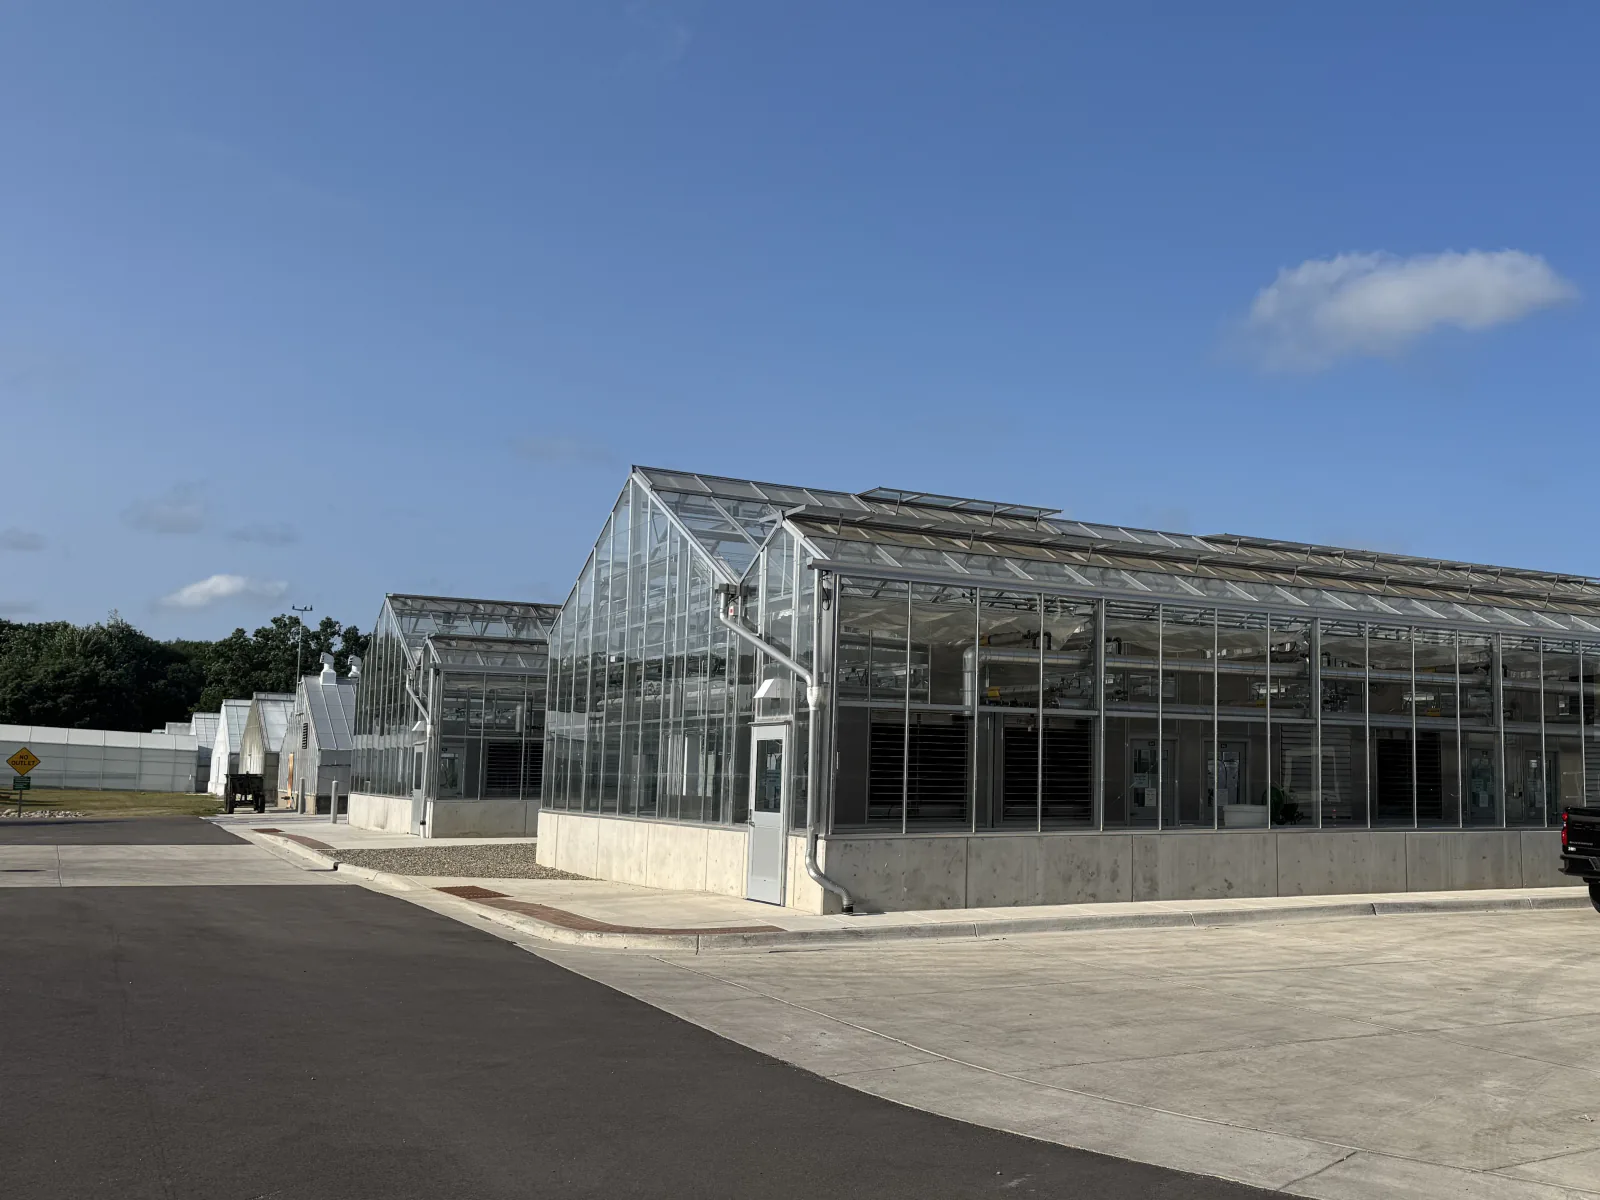
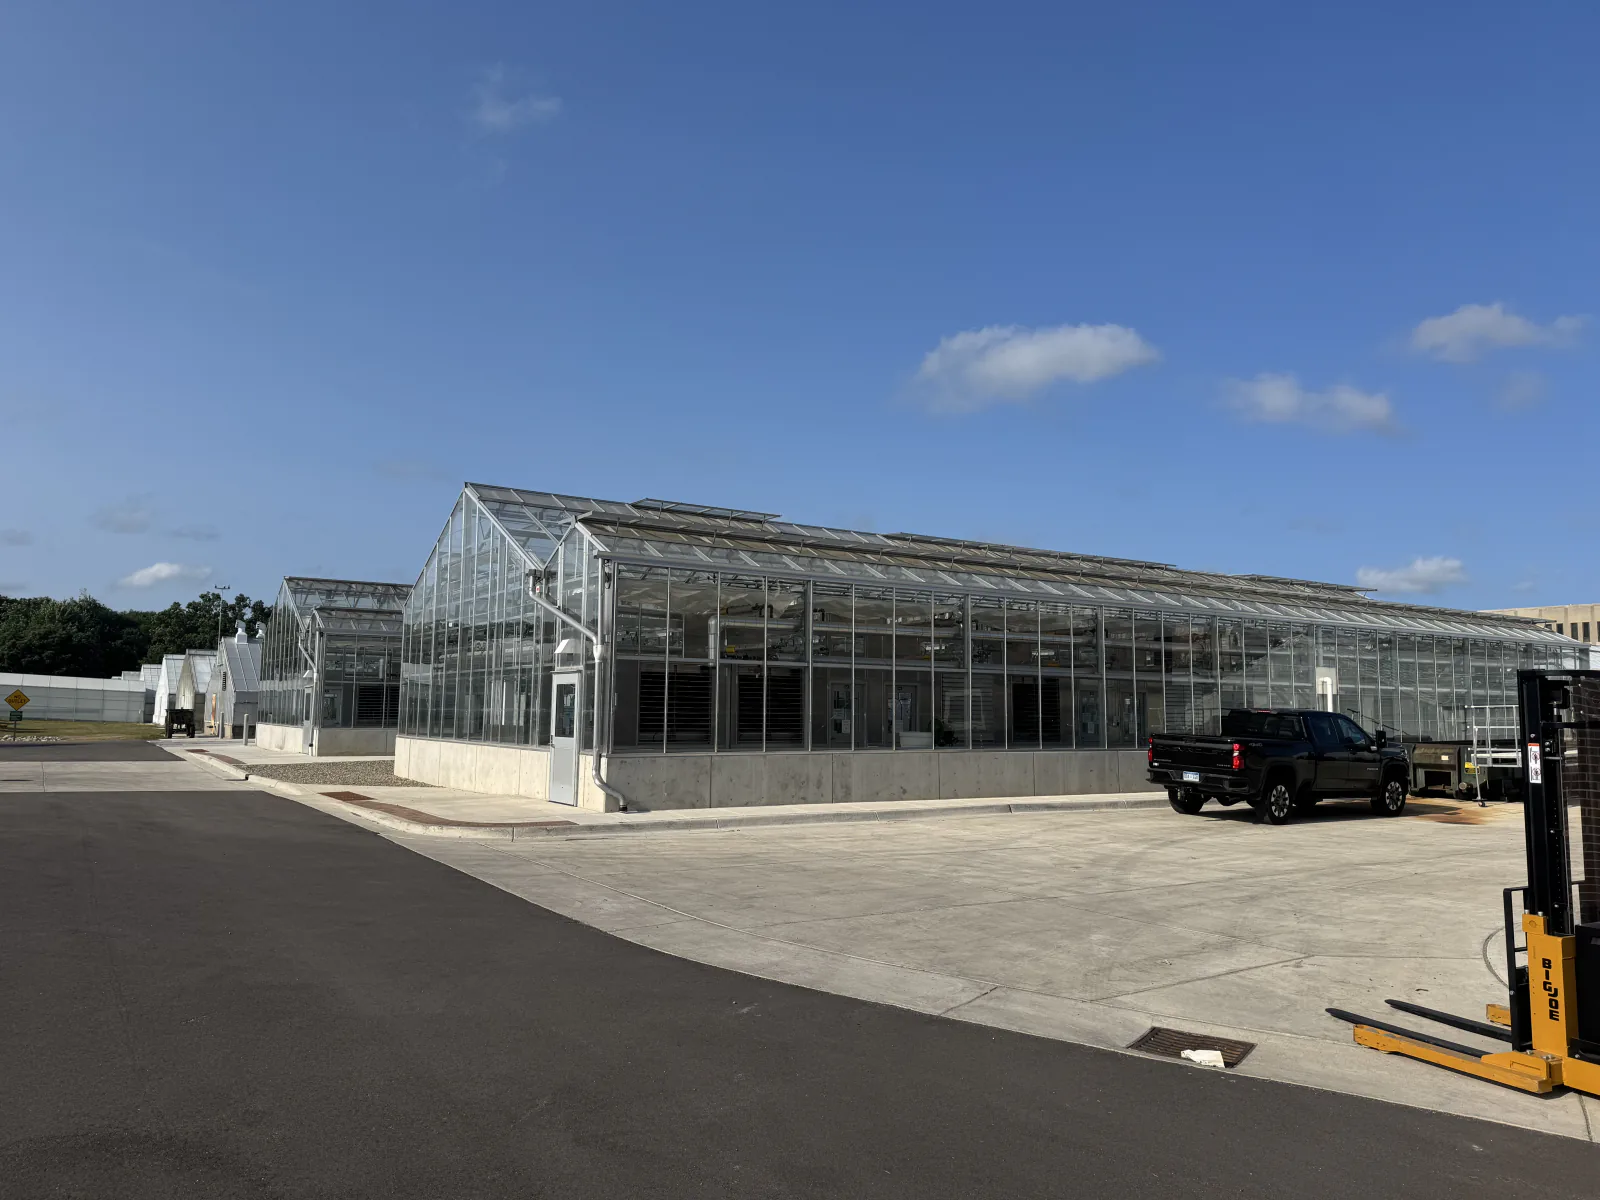
Fix application photo cards

diff --git a/applications.html b/applications.html
@@ -408,30 +408,39 @@
 
   .app-cards {
     display: grid;
-    grid-template-columns: repeat(2, 1fr);
-    gap: 0;
+    grid-template-columns: repeat(3, minmax(0, 1fr));
+    gap: 1.5rem;
+    align-items: stretch;
   }
 
   .app-card {
-    background: var(--bg);
+    background: rgba(255, 255, 255, 0.72);
     border: 1px solid var(--rule);
-    margin: -1px 0 0 -1px;
-    padding: 2.5rem;
+    border-radius: 14px;
+    margin: 0;
+    padding: 1.5rem;
     position: relative;
     overflow: hidden;
-    transition: background 0.3s;
+    display: flex;
+    flex-direction: column;
+    box-shadow: 0 18px 48px rgba(14, 26, 20, 0.07);
+    transition: background 0.3s, border-color 0.3s, transform 0.3s, box-shadow 0.3s;
     cursor: default;
   }
   .app-card:nth-child(3) {
-    grid-column: 1 / -1;
-    justify-self: center;
-    width: 50%;
+    grid-column: auto;
+    width: auto;
   }
   .app-card > * {
     position: relative;
     z-index: 2;
   }
-  .app-card:hover { background: var(--water-pale); }
+  .app-card:hover {
+    background: #fff;
+    border-color: rgba(26, 107, 74, 0.28);
+    transform: translateY(-3px);
+    box-shadow: 0 22px 56px rgba(14, 26, 20, 0.11);
+  }
 
   .app-card-num {
     font-family: var(--mono);
@@ -460,13 +469,18 @@
     line-height: 1.7;
     color: var(--ink);
     opacity: 0.65;
+    flex: 1;
   }
   .app-card-image {
-    margin-top: 2rem;
+    order: -1;
+    margin: 0 0 1.75rem;
     width: 100%;
-    height: 160px;
-    background: var(--mist);
+    height: auto;
+    aspect-ratio: 1;
+    padding: 0.8rem;
+    background: linear-gradient(145deg, #edf2ef, #e5ebe7);
     border: 1px solid var(--rule);
+    border-radius: 10px;
     display: flex;
     align-items: center;
     justify-content: center;
@@ -477,7 +491,9 @@
     display: block;
     width: 100%;
     height: 100%;
-    object-fit: cover;
+    object-fit: contain;
+    border-radius: 6px;
+    box-shadow: 0 8px 24px rgba(14, 26, 20, 0.12);
   }
 
   /* ── WHY EXACTH2O ── */
@@ -616,7 +632,7 @@
     .cta-strip { padding: 4rem 1.5rem; }
     .app-intro-grid { grid-template-columns: 1fr; gap: 2rem; }
     .app-cards { grid-template-columns: 1fr; }
-    .app-card:nth-child(3) { width: 100%; }
+    .app-card:nth-child(3) { width: auto; }
     .why-inner { grid-template-columns: 1fr; gap: 3rem; }
     footer { flex-direction: column; gap: 0.8rem; text-align: center; padding: 2rem 1.5rem; }
   }
@@ -787,7 +803,7 @@
         Precisely control and measure substrate water content to induce, maintain, and recover from defined drought stress levels. ExactH2O enables researchers to hold volumetric water content at any target percentage across replicated pots simultaneously — eliminating the variability that undermines stress experiment reproducibility. Continuous logging captures the full stress trajectory from imposition through relief, allowing correlation with physiological indicators like stomatal conductance, chlorophyll fluorescence, and biomass accumulation.
       </p>
       <div class="app-card-image">
-        <img src="/applications-plant-stress.webp" width="1600" height="1200" loading="lazy" decoding="async" alt="Young plants in individually irrigated pots with moisture sensors and color-coded tubing">
+        <img src="/applications-plant-stress.webp?v=2" width="1200" height="1600" loading="lazy" decoding="async" alt="Young plants in individually irrigated pots with moisture sensors and color-coded tubing">
       </div>
     </div>
 
@@ -807,7 +823,7 @@
         Integrate substrate water data into high-throughput phenotyping pipelines to disentangle genetic variation from environmental noise. When every genotype in a diversity panel experiences a rigorously identical water regime, differences in growth rate, leaf area, transpiration efficiency, and stress tolerance become attributable to genetics — not watering inconsistency. ExactH2O provides the environmental ground truth that makes phenotyping data scientifically defensible.
       </p>
       <div class="app-card-image">
-        <img src="/applications-plant-phenotyping.webp" width="1600" height="1200" loading="lazy" decoding="async" alt="LI-COR LI-600 instrument recording plant gas-exchange measurements beside experimental pots">
+        <img src="/applications-plant-phenotyping.webp?v=2" width="1200" height="1600" loading="lazy" decoding="async" alt="LI-COR LI-600 instrument recording plant gas-exchange measurements beside experimental pots">
       </div>
     </div>
 
@@ -826,7 +842,7 @@
         Deploy sensor networks across greenhouse benches and container arrays to maintain defined irrigation targets. Built for research facilities and commercial greenhouse operations, ExactH2O combines automated irrigation, continuous monitoring, and multi-zone control while preserving independent settings and clear data for each zone.
       </p>
       <div class="app-card-image">
-        <img src="/applications-research-greenhouse.webp" width="1600" height="1200" loading="lazy" decoding="async" alt="Glass research greenhouse complex under a blue sky">
+        <img src="/applications-research-greenhouse.webp?v=2" width="1600" height="1200" loading="lazy" decoding="async" alt="Glass research greenhouse complex under a blue sky">
       </div>
     </div>
 
